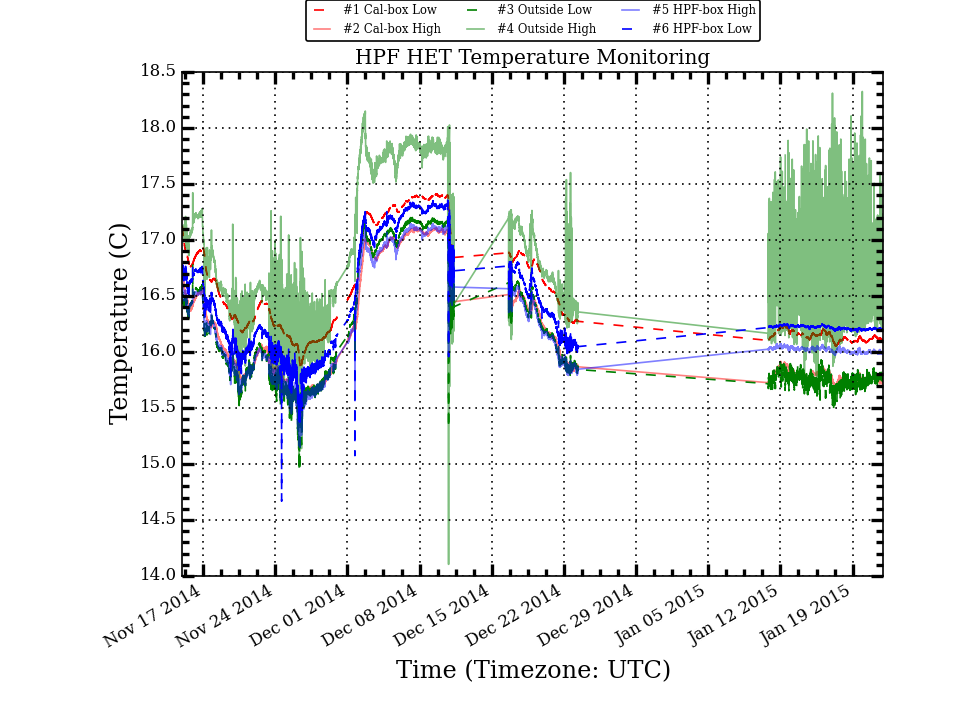
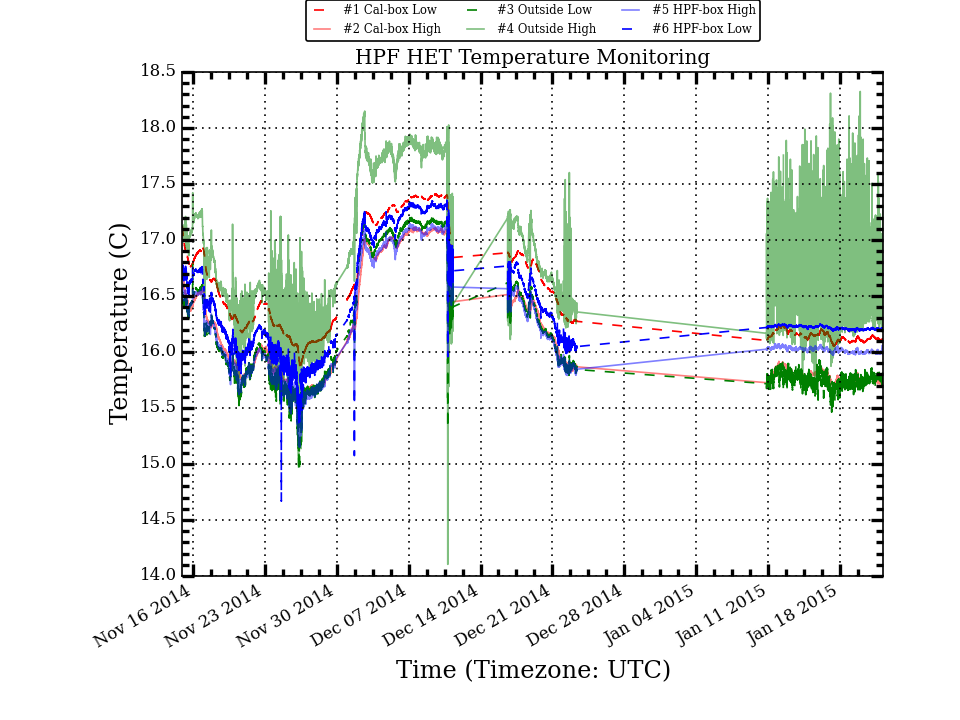
add month

diff --git a/research/hpf_temps/plots/LakeShoreLogTotal_month_stats.html b/research/hpf_temps/plots/LakeShoreLogTotal_month_stats.html
@@ -10,56 +10,56 @@
  </TR>
  <TR>
   <TD>Cal_Low</TD>
-  <TD>16.541</TD>
-  <TD>0.456</TD>
-  <TD>16.334</TD>
+  <TD>16.626</TD>
+  <TD>0.510</TD>
+  <TD>16.447</TD>
   <TD>17.410</TD>
-  <TD>15.840</TD>
-  <TD>1.570</TD>
+  <TD>16.051</TD>
+  <TD>1.359</TD>
  </TR>
  <TR>
   <TD>Cal_High</TD>
-  <TD>16.175</TD>
-  <TD>0.485</TD>
-  <TD>15.924</TD>
+  <TD>16.275</TD>
+  <TD>0.535</TD>
+  <TD>16.034</TD>
   <TD>17.114</TD>
-  <TD>15.410</TD>
-  <TD>1.704</TD>
+  <TD>15.674</TD>
+  <TD>1.440</TD>
  </TR>
  <TR>
   <TD>Out_Low</TD>
-  <TD>16.168</TD>
-  <TD>0.532</TD>
-  <TD>15.921</TD>
+  <TD>16.278</TD>
+  <TD>0.580</TD>
+  <TD>15.955</TD>
   <TD>17.201</TD>
-  <TD>14.942</TD>
-  <TD>2.259</TD>
+  <TD>15.319</TD>
+  <TD>1.882</TD>
  </TR>
  <TR>
   <TD>Out_High</TD>
-  <TD>16.840</TD>
-  <TD>0.586</TD>
-  <TD>16.709</TD>
+  <TD>17.007</TD>
+  <TD>0.584</TD>
+  <TD>16.907</TD>
   <TD>18.326</TD>
   <TD>14.104</TD>
   <TD>4.222</TD>
  </TR>
  <TR>
   <TD>HPF_High</TD>
-  <TD>16.223</TD>
-  <TD>0.461</TD>
-  <TD>16.035</TD>
+  <TD>16.373</TD>
+  <TD>0.454</TD>
+  <TD>16.059</TD>
   <TD>17.147</TD>
-  <TD>15.149</TD>
-  <TD>1.998</TD>
+  <TD>15.791</TD>
+  <TD>1.356</TD>
  </TR>
  <TR>
   <TD>HPF_Low</TD>
-  <TD>16.424</TD>
-  <TD>0.458</TD>
-  <TD>16.230</TD>
+  <TD>16.572</TD>
+  <TD>0.453</TD>
+  <TD>16.243</TD>
   <TD>17.356</TD>
-  <TD>14.668</TD>
-  <TD>2.688</TD>
+  <TD>15.958</TD>
+  <TD>1.398</TD>
  </TR>
 </TABLE>

diff --git a/research/hpf_temps/plots/LakeShoreLogTotal_week_stats.html b/research/hpf_temps/plots/LakeShoreLogTotal_week_stats.html
@@ -10,54 +10,54 @@
  </TR>
  <TR>
   <TD>Cal_Low</TD>
-  <TD>16.123</TD>
-  <TD>0.032</TD>
   <TD>16.118</TD>
+  <TD>0.031</TD>
+  <TD>16.112</TD>
   <TD>16.202</TD>
   <TD>16.051</TD>
   <TD>0.151</TD>
  </TR>
  <TR>
   <TD>Cal_High</TD>
-  <TD>15.766</TD>
-  <TD>0.040</TD>
-  <TD>15.756</TD>
+  <TD>15.758</TD>
+  <TD>0.038</TD>
+  <TD>15.750</TD>
   <TD>15.874</TD>
   <TD>15.674</TD>
   <TD>0.200</TD>
  </TR>
  <TR>
   <TD>Out_Low</TD>
-  <TD>15.736</TD>
-  <TD>0.059</TD>
+  <TD>15.734</TD>
+  <TD>0.058</TD>
   <TD>15.739</TD>
-  <TD>15.947</TD>
+  <TD>15.922</TD>
   <TD>15.463</TD>
-  <TD>0.484</TD>
+  <TD>0.459</TD>
  </TR>
  <TR>
   <TD>Out_High</TD>
-  <TD>16.632</TD>
-  <TD>0.377</TD>
-  <TD>16.574</TD>
+  <TD>16.609</TD>
+  <TD>0.374</TD>
+  <TD>16.510</TD>
   <TD>18.326</TD>
-  <TD>15.776</TD>
-  <TD>2.550</TD>
+  <TD>15.873</TD>
+  <TD>2.453</TD>
  </TR>
  <TR>
   <TD>HPF_High</TD>
-  <TD>16.011</TD>
-  <TD>0.018</TD>
-  <TD>16.007</TD>
+  <TD>16.008</TD>
+  <TD>0.017</TD>
+  <TD>16.003</TD>
   <TD>16.067</TD>
   <TD>15.970</TD>
   <TD>0.097</TD>
  </TR>
  <TR>
   <TD>HPF_Low</TD>
-  <TD>16.211</TD>
-  <TD>0.013</TD>
-  <TD>16.208</TD>
+  <TD>16.209</TD>
+  <TD>0.011</TD>
+  <TD>16.206</TD>
   <TD>16.250</TD>
   <TD>16.176</TD>
   <TD>0.074</TD>

diff --git a/research/hpf_temps/index.html b/research/hpf_temps/index.html
@@ -89,6 +89,9 @@ v-collapse">
     $.get('plots/LakeShoreLogTotal_stats.html', function(data) {
       $("#het_pi_totalstats").html(data);
     }, 'text');
+    $.get('plots/LakeShoreLogTotal_month_stats.html', function(data) {
+      $("#het_pi_monthstats").html(data);
+    }, 'text');
     $.get('plots/LakeShoreLogTotal_week_stats.html', function(data) {
       $("#het_pi_weekstats").html(data);
     }, 'text');
@@ -122,7 +125,30 @@ v-collapse">
 <hr>
 
 
-<h3>Last Week (or last 7 days)</h3>
+<h3>Last Month (last 30 days)</h3>
+
+<div class="row-fluid" id="week">
+    <div class="span12">
+        <p>
+            <center>
+                <img src=" plots/LakeShoreLogTotal_month.png">
+            </center>
+        </p>
+    </div>
+        <center>
+        Data from <b>plots/LakeShoreLogTotal_month_stats.html</b>. Unit: degrees C. 
+        <div id="het_pi_monthstats">
+        </div>
+        </center>
+</div>
+
+
+
+
+<hr>
+
+
+<h3>Last Week (last 7 days)</h3>
 
 <div class="row-fluid" id="week">
     <div class="span12">

diff --git a/research/hpf_temps/plots/LakeShoreLogTotal_today_stats.html b/research/hpf_temps/plots/LakeShoreLogTotal_today_stats.html
@@ -30,16 +30,16 @@
   <TD>Out_Low</TD>
   <TD>15.769</TD>
   <TD>0.024</TD>
-  <TD>15.770</TD>
+  <TD>15.769</TD>
   <TD>15.858</TD>
   <TD>15.694</TD>
   <TD>0.164</TD>
  </TR>
  <TR>
   <TD>Out_High</TD>
-  <TD>16.465</TD>
-  <TD>0.231</TD>
-  <TD>16.372</TD>
+  <TD>16.462</TD>
+  <TD>0.230</TD>
+  <TD>16.371</TD>
   <TD>17.600</TD>
   <TD>16.201</TD>
   <TD>1.399</TD>
@@ -48,7 +48,7 @@
   <TD>HPF_High</TD>
   <TD>16.000</TD>
   <TD>0.009</TD>
-  <TD>15.998</TD>
+  <TD>15.999</TD>
   <TD>16.025</TD>
   <TD>15.980</TD>
   <TD>0.045</TD>
